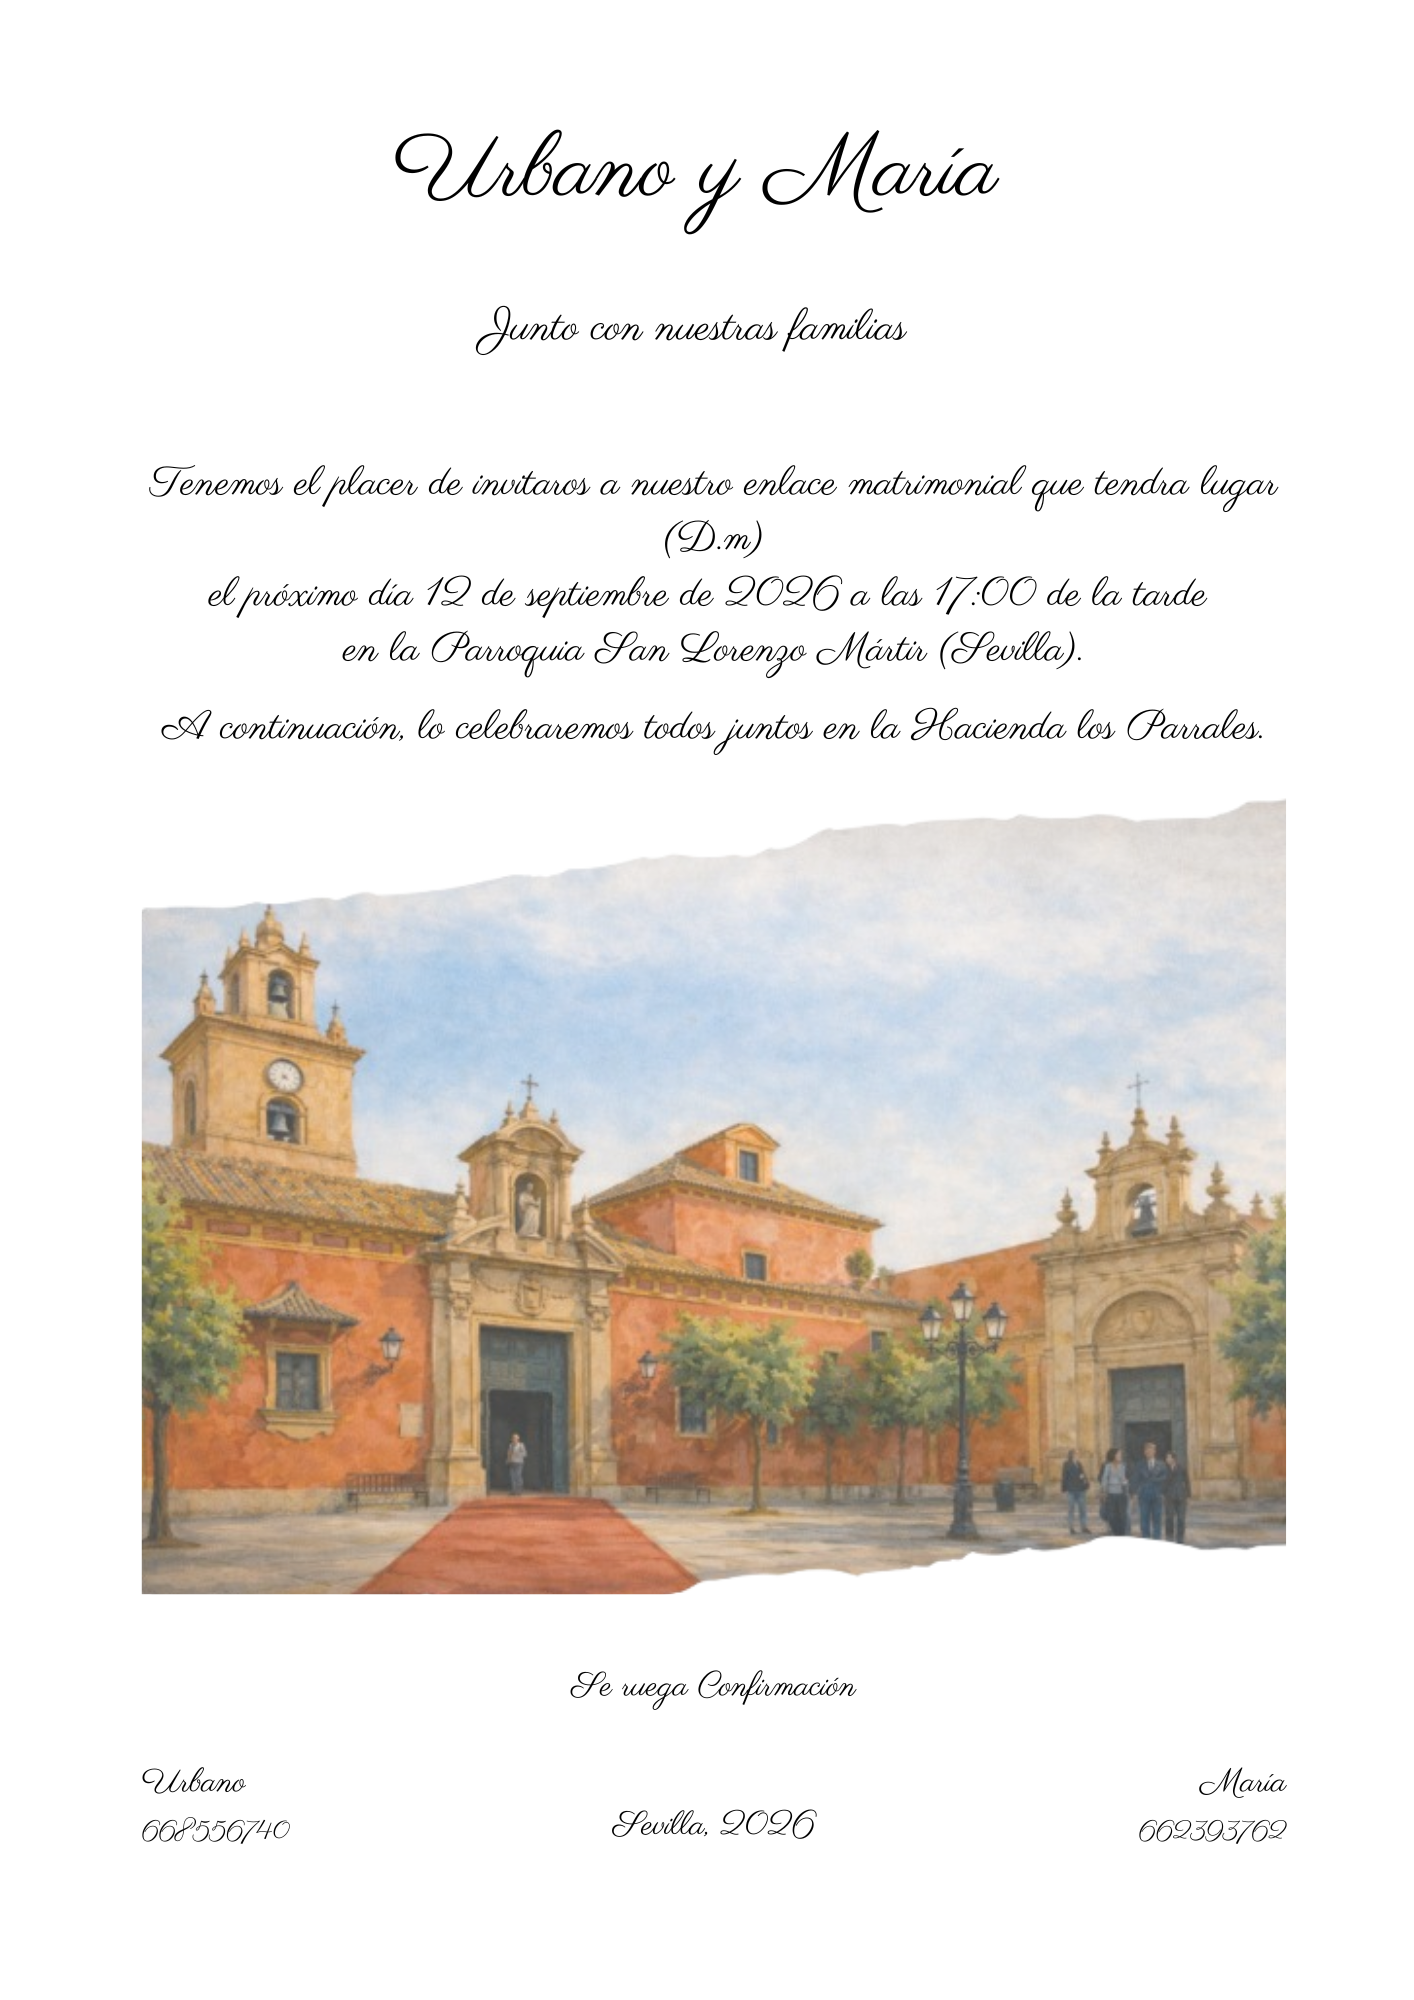
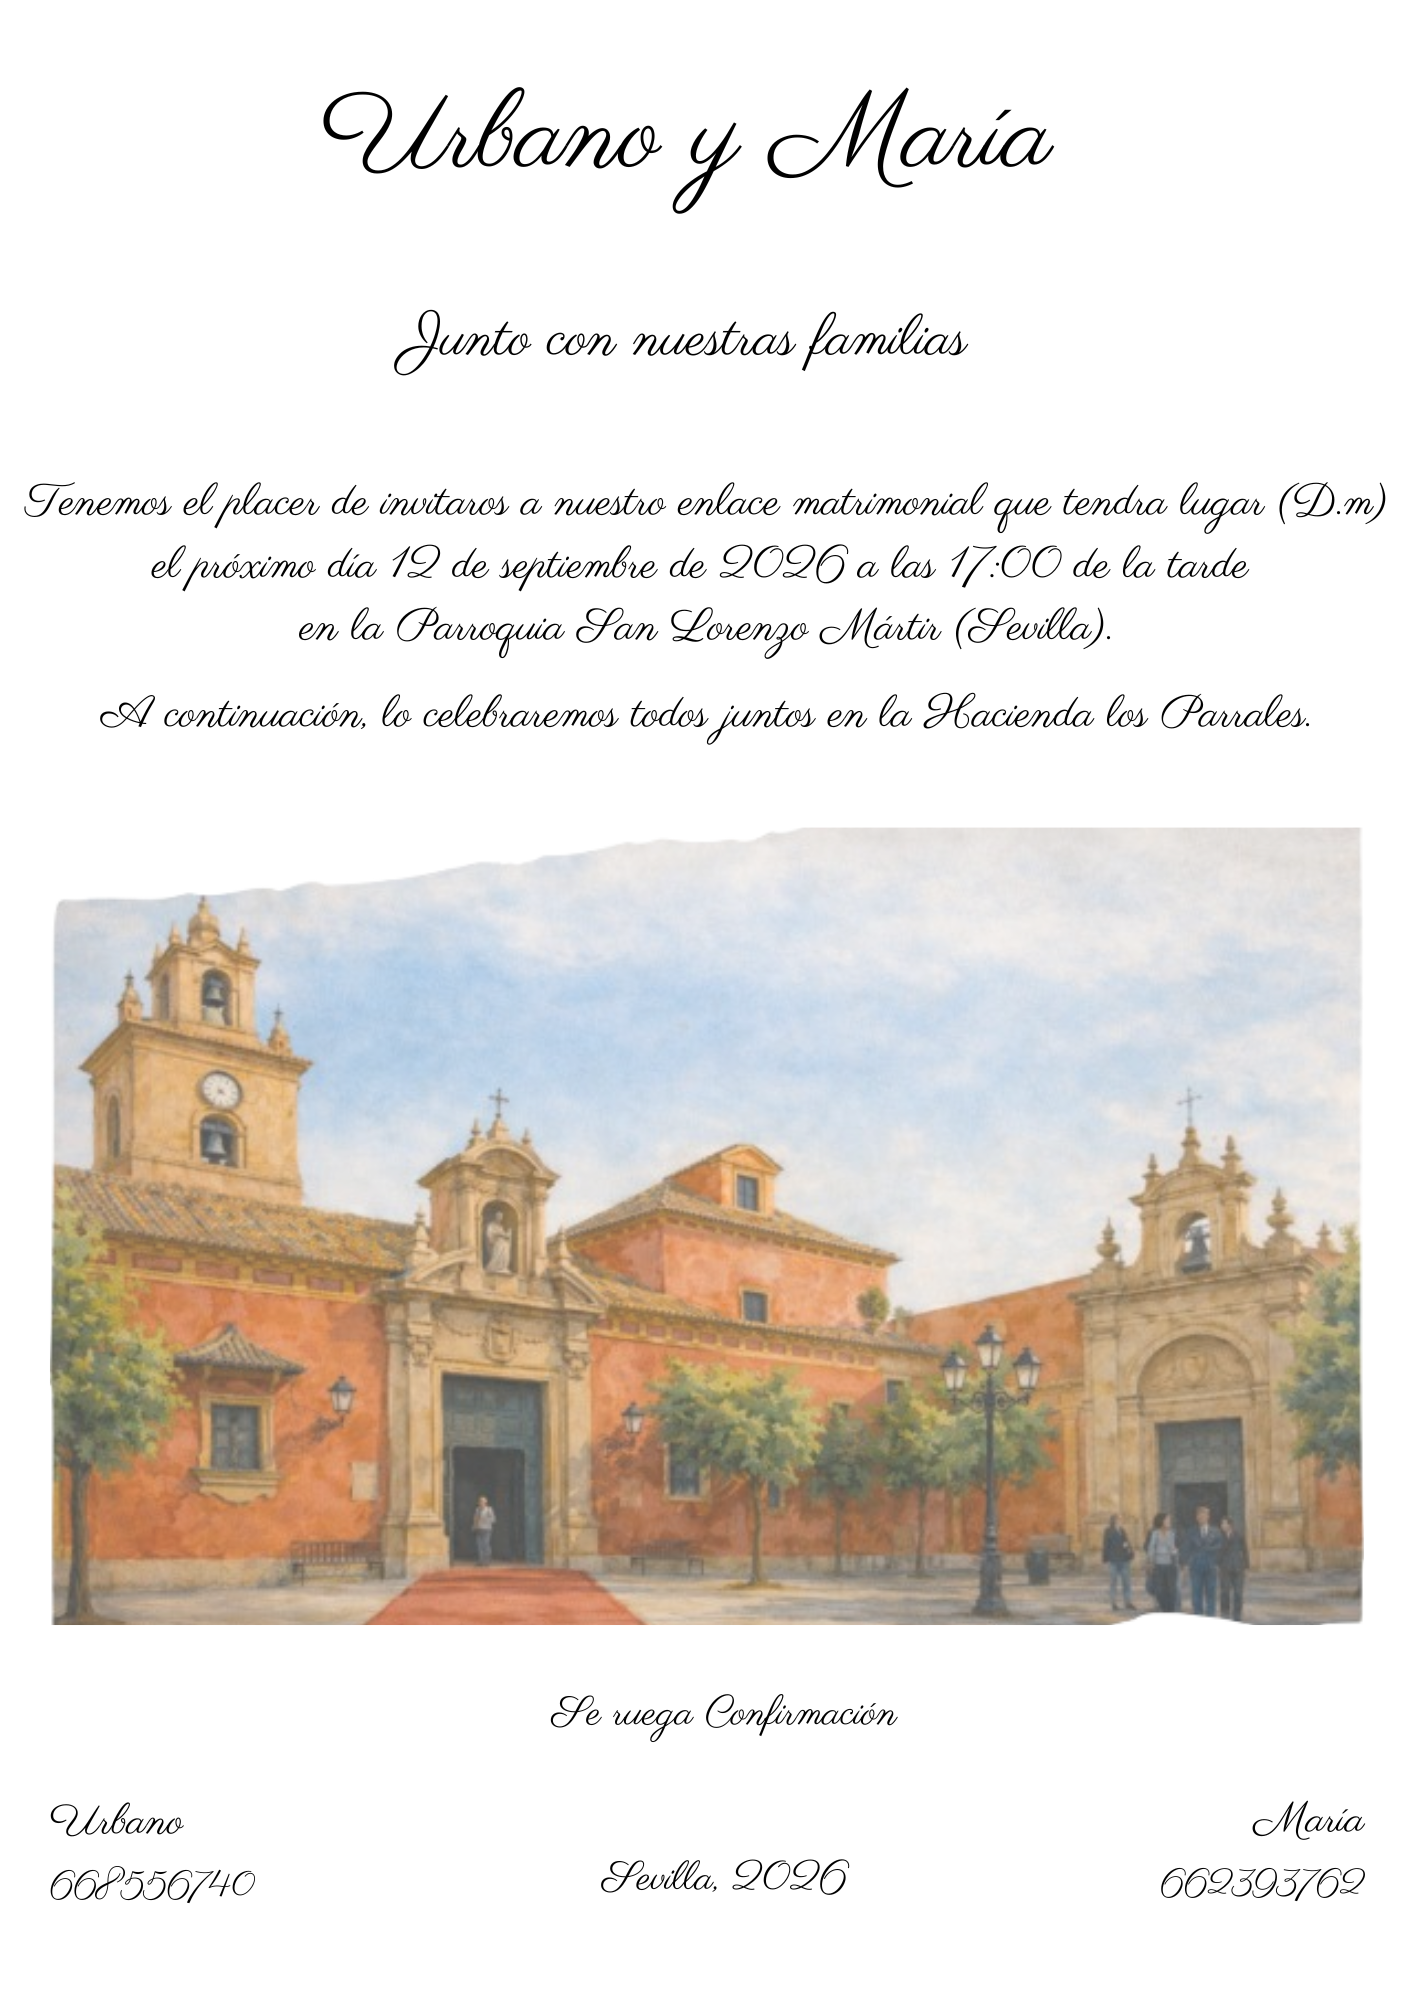
Invitación de boda con intro MP4

diff --git a/index.html b/index.html
@@ -12,6 +12,7 @@
 
   <link rel="stylesheet" href="style.css" />
 </head>
+
 <body>
 
   <!-- INTRO: SOBRE -->
@@ -46,10 +47,12 @@
 
     <main class="pages">
 
-      <!-- INICIO: PORTADA = 1 IMAGEN A PANTALLA COMPLETA -->
+      <!-- INICIO: PORTADA COMPLETA -->
       <section class="page is-active is-visible" data-page="inicio">
-        <div class="coverWrap">
-          <img class="coverImg" src="assets/Invitacion.png" alt="Invitación" />
+        <div class="homeFit">
+          <div class="invImageWrap">
+            <img class="invImage" src="assets/Invitacion.png" alt="Invitación" />
+          </div>
         </div>
       </section>
 
@@ -64,7 +67,101 @@
     </main>
   </div>
 
-  <script src="script.js"></script>
+  <script>
+    // ========= INTRO SOBRE =========
+    const intro = document.getElementById("intro");
+    const introVideo = document.getElementById("introVideo");
+    const app = document.getElementById("app");
+
+    let started = false;
+
+    function showApp(){
+      intro.style.display = "none";
+      intro.classList.remove("fadeOut");
+      app.classList.add("show");
+      app.setAttribute("aria-hidden", "false");
+      window.scrollTo(0,0);
+    }
+
+    function showIntro(){
+      // vuelve a enseñar el sobre y reinicia el vídeo
+      app.classList.remove("show");
+      app.setAttribute("aria-hidden", "true");
+      intro.style.display = "block";
+      intro.classList.remove("fadeOut");
+      started = false;
+      try{
+        introVideo.pause();
+        introVideo.currentTime = 0;
+      }catch(e){}
+    }
+
+    // Click en la intro -> reproduce una vez
+    intro.addEventListener("click", async () => {
+      if (started) return;
+      started = true;
+      try {
+        introVideo.currentTime = 0;
+        await introVideo.play();
+      } catch (e) {
+        showApp();
+      }
+    });
+
+    // Al terminar el vídeo -> muestra la portada
+    introVideo.addEventListener("ended", () => {
+      intro.classList.add("fadeOut");
+      setTimeout(showApp, 520);
+    });
+
+    // ========= MENÚ =========
+    const menuBtn = document.getElementById("menuBtn");
+    const closeBtn = document.getElementById("closeBtn");
+    const menuOverlay = document.getElementById("menuOverlay");
+
+    menuBtn.addEventListener("click", () => menuOverlay.classList.add("show"));
+    closeBtn.addEventListener("click", () => menuOverlay.classList.remove("show"));
+    menuOverlay.addEventListener("click", (e) => {
+      if (e.target === menuOverlay) menuOverlay.classList.remove("show");
+    });
+
+    // ========= PÁGINAS =========
+    const pages = Array.from(document.querySelectorAll(".page"));
+    let active = "inicio";
+
+    function getPage(name){ return pages.find(p => p.dataset.page === name); }
+
+    function setActive(target){
+      if (!target || target === active) return;
+      const current = getPage(active);
+      const next = getPage(target);
+      if (!current || !next) return;
+
+      current.classList.remove("is-visible");
+      setTimeout(() => {
+        current.classList.remove("is-active");
+        next.classList.add("is-active");
+        requestAnimationFrame(() => next.classList.add("is-visible"));
+        active = target;
+        window.scrollTo(0,0);
+      }, 220);
+    }
+
+    document.querySelectorAll(".menuLink").forEach(btn => {
+      btn.addEventListener("click", () => {
+        menuOverlay.classList.remove("show");
+        setActive(btn.dataset.page);
+      });
+    });
+
+    // ========= REPLAY (volver a ver el sobre) =========
+    const replayBtn = document.getElementById("replayBtn");
+    replayBtn.addEventListener("click", () => {
+      menuOverlay.classList.remove("show");
+      showIntro();
+    });
+  </script>
+
 </body>
 </html>
 

diff --git a/style.css b/style.css
@@ -29,6 +29,7 @@ body{
   inset:0;
   background:#000;
   z-index:9999;
+  opacity:1;
   transition:opacity 520ms ease;
 }
 .intro.fadeOut{
@@ -40,6 +41,7 @@ body{
   height:100vh;
   object-fit:cover;
   display:block;
+  background:#000;
 }
 
 /* =========================
@@ -51,83 +53,90 @@ body{
 .topbar{
   position:fixed;
   top:0; left:0; right:0;
-  height:48px;                 /* 🔽 MÁS BAJO */
+  height:56px;
   display:flex;
   align-items:center;
-  padding:0 12px;
+  padding:0 14px;
   background:rgba(255,255,255,.95);
   z-index:10;
+  border-bottom:none;
+  box-shadow:none;
 }
 
-.iconBtn,
-.replayBtn{
+.iconBtn{
   background:transparent;
   border:0;
-  font-size:20px;
+  font-size:22px;
   cursor:pointer;
   color:var(--text-main);
 }
 
 .logoText{
   font-size:18px;
-  margin-left:6px;
+  margin-left:8px;
   color:var(--text-main);
+  opacity:.9;
 }
 
 .replayBtn{
   margin-left:auto;
-  opacity:.7;
+  background:transparent;
+  border:0;
+  font-size:18px;
+  cursor:pointer;
+  color:var(--text-main);
+  opacity:.65;
 }
+.replayBtn:hover{ opacity:1; }
 
 /* =========================
    PAGES
 ========================= */
 .pages{
-  padding-top:48px;            /* 🔽 acorde al topbar */
+  padding-top:56px;
   height:100%;
 }
 
 .page{
   display:none;
-  height:calc(100vh - 48px);
-  height:calc(100svh - 48px);
-  overflow:hidden;
+  height:calc(100vh - 56px);
+  height:calc(100svh - 56px);
+  overflow:hidden; /* sin scroll */
   background:#fff;
 
   opacity:0;
-  transform:translateY(2px);
-  transition:opacity 200ms ease, transform 200ms ease;
+  transform:translateY(4px);
+  transition:opacity 220ms ease, transform 220ms ease;
 }
 .page.is-active{ display:block; }
-.page.is-visible{ opacity:1; transform:none; }
+.page.is-visible{ opacity:1; transform:translateY(0); }
 
 /* =========================
-   INICIO – PORTADA COMPLETA
+   INICIO – PORTADA COMPLETA (SIN RECORTAR)
 ========================= */
 .homeFit{
   height:100%;
-  width:100%;
-
-  /* 🔥 AQUÍ ESTABA EL PROBLEMA */
-  max-width:100%;              /* ❌ fuera límites artificiales */
-  padding:4px 6px 6px;         /* 🔥 casi sin aire */
-
+  max-width:720px;      /* mantiene estética “invitación” */
+  margin:0 auto;
+  padding:2px 6px 4px;  /* ✅ menos aire (arriba/lados/abajo) */
   display:flex;
   flex-direction:column;
 }
 
-/* Imagen ocupa TODO el espacio posible */
 .invImageWrap{
-  flex:1;
+  height:100%;
+  width:100%;
   display:flex;
   align-items:center;
   justify-content:center;
 }
 
-/* Imagen SIEMPRE COMPLETA, sin recorte */
+/* ✅ clave: escala completa sin deformar ni “desaparecer” */
 .invImage{
-  width:100%;
-  height:100%;
+  max-width:100%;
+  max-height:100%;
+  width:auto;
+  height:auto;
   object-fit:contain;
   display:block;
 }
@@ -150,30 +159,40 @@ body{
   position:absolute;
   top:10px;
   left:10px;
-  width:40px;
-  height:40px;
+  width:44px;
+  height:44px;
   background:transparent;
   border:0;
-  font-size:20px;
+  font-size:22px;
   color:#fff;
   cursor:pointer;
 }
 
 .menuNav{
   position:absolute;
-  top:64px;
-  left:20px;
+  top:70px;
+  left:22px;
   display:flex;
   flex-direction:column;
-  gap:12px;
+  gap:14px;
 }
 
 .menuLink{
   background:transparent;
   border:0;
+  padding:0;
   cursor:pointer;
   font-family:"Parisienne", cursive;
-  font-size:28px;
-  color:#fff;
+  font-size:30px;
+  color:rgba(255,255,255,.95);
   text-align:left;
+}
+
+/* =========================
+   PÁGINAS VACÍAS
+========================= */
+.blankPage{
+  padding:24px 18px;
+  font-size:32px;
+  color:var(--text-main);
 }
